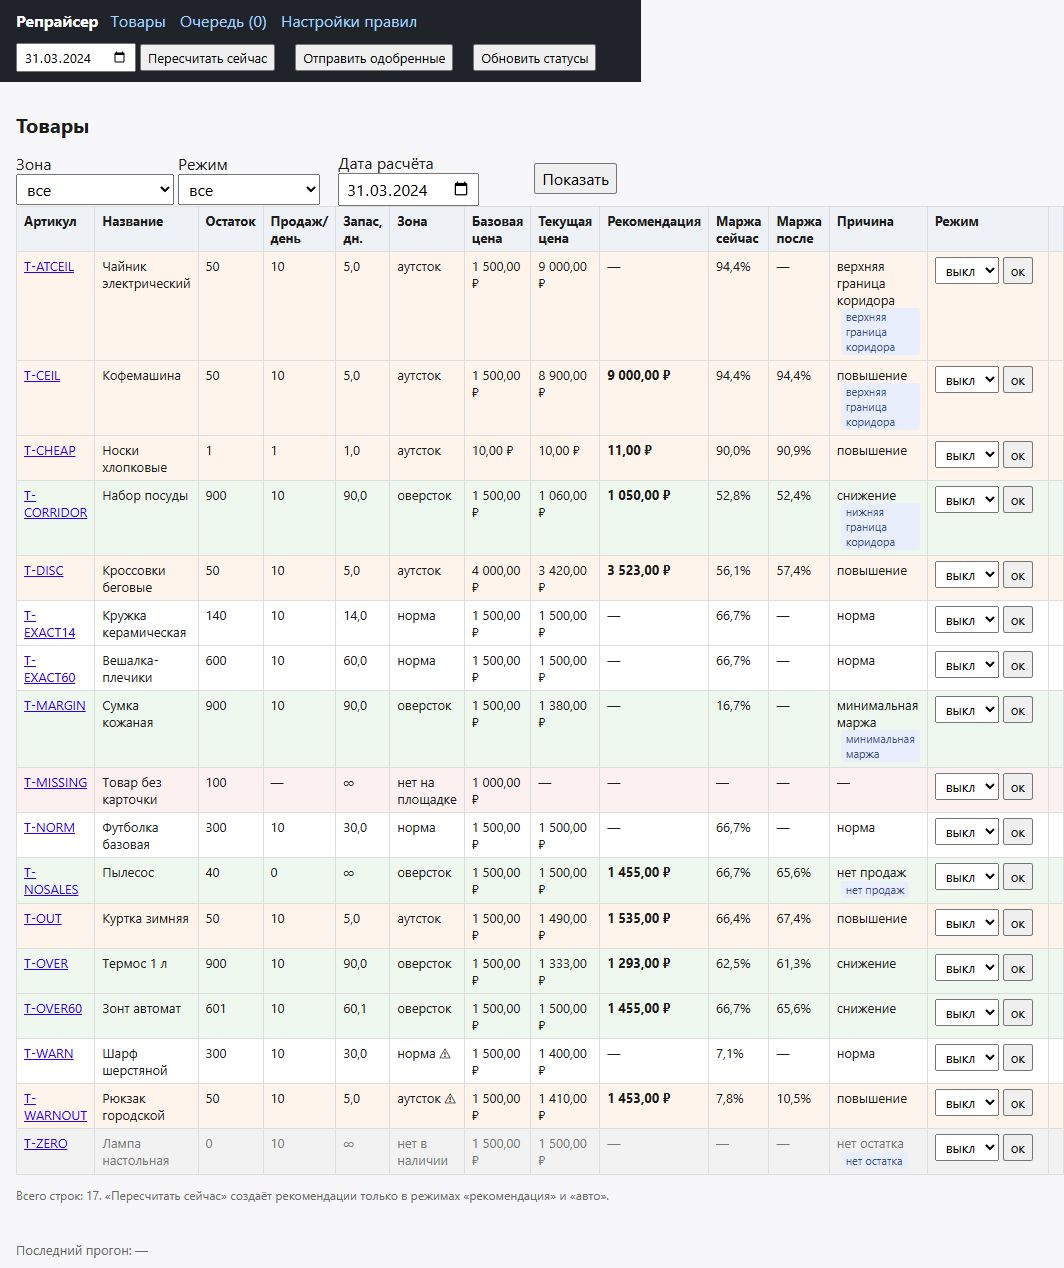
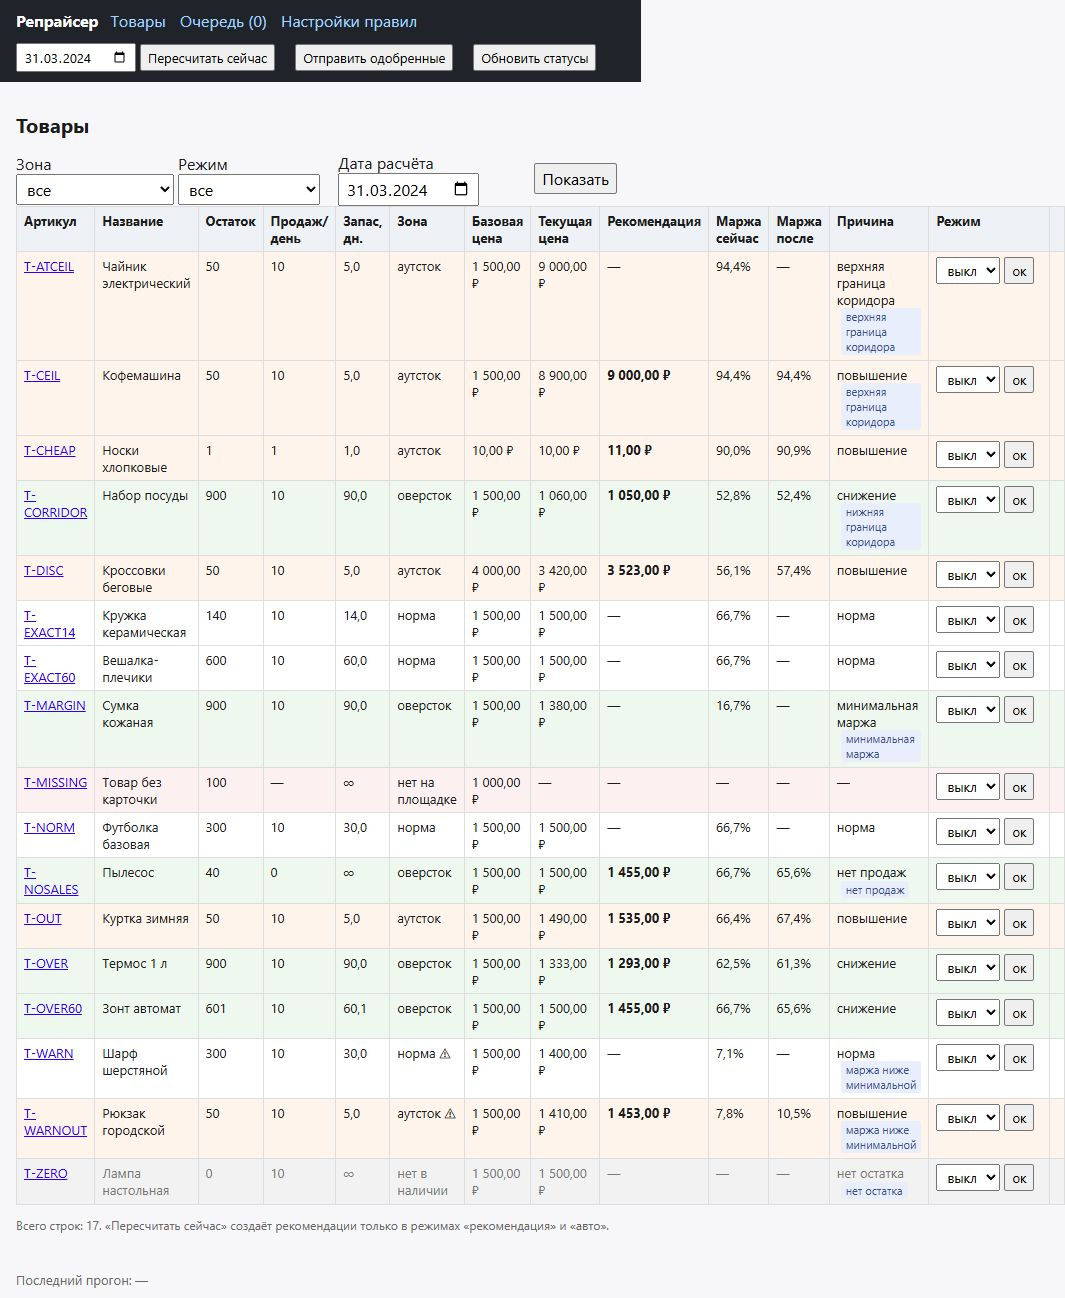
Тег «маржа ниже минимальной» в колонке «Причина»

diff --git a/src/repricer/web/templates/index.html b/src/repricer/web/templates/index.html
@@ -58,6 +58,7 @@
         <td>{% if row.price_changed %}{{ pct(row.margin_after) }}{% else %}—{% endif %}</td>
         <td title="{{ row.message }}">{{ reason_label(row.reason) }}
             {% for limiter in row.limiters %}<span class="tag">{{ limiter_label(limiter) }}</span>{% endfor %}
+            {% if row.margin_warning %}<span class="tag">маржа ниже минимальной</span>{% endif %}
         </td>
         <td>
             <form method="post" action="/product/{{ row.vendor_code }}/mode" class="inline">

diff --git a/tests/test_web.py b/tests/test_web.py
@@ -46,6 +46,8 @@ def test_index_shows_zones_and_states(tmp_path, start_emulator):
     assert "нет на площадке" in response.text
     assert response.text.index("Базовая цена") < response.text.index("Текущая цена")
     assert "4\u00a0000,00 ₽" in response.text  # базовая цена T-DISC из CSV
+    assert "маржа ниже минимальной" in response.text  # тег для T-WARN/T-WARNOUT
+    assert "⚠" in response.text
 
 
 def test_full_cycle_through_forms(tmp_path, start_emulator):

diff --git a/TESTING.md b/TESTING.md
@@ -270,7 +270,8 @@ Stop-Process -Id <PID> -Force
 4. Коридор: `T-CORRIDOR` упирается в нижнюю границу (1 500 × (100 − 30)% = 1 050),
    `T-CEIL` — в верхнюю (1 500 × (100 + 500)% = 1 500 × 6 = 9 000).
 5. Минимальная маржа: `T-MARGIN` — снижение запрещено, причина «минимальная маржа»; `T-WARN`,
-   `T-WARNOUT` — предупреждение ⚠ без блокировки.
+   `T-WARNOUT` — значок ⚠ в колонке «Зона» и тег «маржа ниже минимальной» в колонке «Причина»
+   без блокировки.
 6. Базовая цена: колонка «Базовая цена» берётся из учёта (`T-OUT` 1 500, `T-OVER` 1 500,
    `T-DISC` 4 000) и стоит перед текущей; от неё считается коридор.
 7. Округление: `T-CHEAP` 10 → 11, `T-OUT` 1 534,7 → 1 535 (вверх), `T-OVER` 1 293,01 → 1 293
